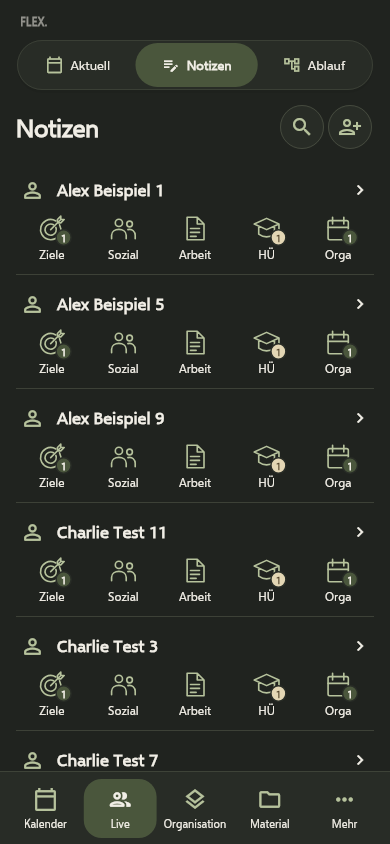
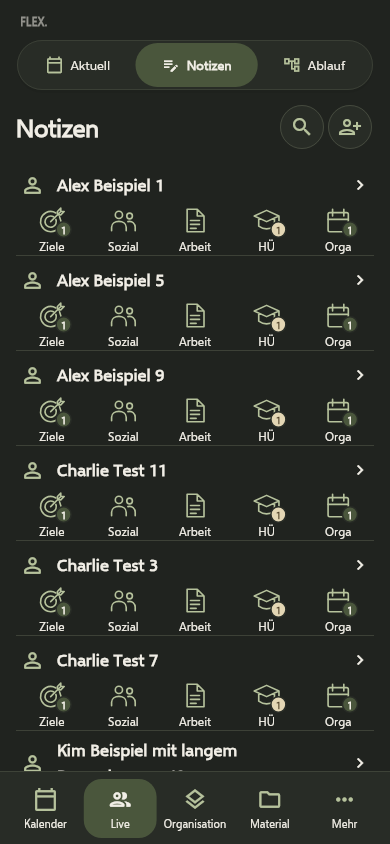
Fit six pupil rows on phones while preserving all recording actions

diff --git a/flutter_app/lib/ui/pupil_card.dart b/flutter_app/lib/ui/pupil_card.dart
@@ -37,48 +37,51 @@ class PupilCard extends StatelessWidget {
           ),
         ),
         child: Padding(
-          padding: const EdgeInsets.only(top: 8, bottom: 9),
+          padding: const EdgeInsets.symmetric(vertical: 2),
           child: Column(
             mainAxisSize: MainAxisSize.min,
             children: [
-              InkWell(
-                key: ValueKey('pupil-open-${pupil.id}'),
-                onTap: onOpen,
-                borderRadius: BorderRadius.circular(10),
-                child: Padding(
-                  padding: const EdgeInsets.symmetric(
-                    horizontal: 4,
-                    vertical: 8,
-                  ),
-                  child: Row(
-                    children: [
-                      Icon(
-                        Icons.person_outline_rounded,
-                        size: 25,
-                        color: scheme.primary,
-                      ),
-                      const SizedBox(width: 12),
-                      Expanded(
-                        child: Text(
-                          pupil.name,
-                          style: theme.textTheme.titleMedium?.copyWith(
-                            fontSize: 17,
-                            fontWeight: FontWeight.w700,
+              ConstrainedBox(
+                constraints: const BoxConstraints(minHeight: 44),
+                child: InkWell(
+                  key: ValueKey('pupil-open-${pupil.id}'),
+                  onTap: onOpen,
+                  borderRadius: BorderRadius.circular(10),
+                  child: Padding(
+                    padding: const EdgeInsets.symmetric(
+                      horizontal: 4,
+                      vertical: 4,
+                    ),
+                    child: Row(
+                      children: [
+                        Icon(
+                          Icons.person_outline_rounded,
+                          size: 25,
+                          color: scheme.primary,
+                        ),
+                        const SizedBox(width: 12),
+                        Expanded(
+                          child: Text(
+                            pupil.name,
+                            style: theme.textTheme.titleMedium?.copyWith(
+                              fontSize: 17,
+                              fontWeight: FontWeight.w700,
+                            ),
                           ),
                         ),
-                      ),
-                      if (pupil.archived)
-                        const Padding(
-                          padding: EdgeInsets.only(left: 8),
-                          child: Text('Archiviert'),
+                        if (pupil.archived)
+                          const Padding(
+                            padding: EdgeInsets.only(left: 8),
+                            child: Text('Archiviert'),
+                          ),
+                        const SizedBox(width: 8),
+                        Icon(
+                          Icons.chevron_right,
+                          size: 20,
+                          color: scheme.onSurface,
                         ),
-                      const SizedBox(width: 8),
-                      Icon(
-                        Icons.chevron_right,
-                        size: 20,
-                        color: scheme.onSurface,
-                      ),
-                    ],
+                      ],
+                    ),
                   ),
                 ),
               ),
@@ -107,7 +110,7 @@ class PupilCard extends StatelessWidget {
                               child: Padding(
                                 padding: const EdgeInsets.symmetric(
                                   horizontal: 2,
-                                  vertical: 4,
+                                  vertical: 0,
                                 ),
                                 child: Column(
                                   mainAxisSize: MainAxisSize.min,

diff --git a/flutter_app/test/ui_journey_audit_test.dart b/flutter_app/test/ui_journey_audit_test.dart
@@ -182,6 +182,32 @@ void main() {
               ),
             );
             await capture(t, key, 'page-${destination.$1}-$tab-$suffix');
+            if (destination.$1 == 1 && tab == 1 && view.$1 == 390) {
+              // Match the approved six-pupil phone layout without hiding any
+              // of the five actions or shrinking their touch surfaces.
+              for (final pupil in [
+                'audit-p0',
+                'audit-p4',
+                'audit-p8',
+                'audit-p10',
+                'audit-p2',
+                'audit-p6',
+              ]) {
+                for (final action in [
+                  'goal',
+                  'social',
+                  'work',
+                  'homework',
+                  'orga',
+                ]) {
+                  final button = find.byKey(
+                    ValueKey('shortcut-$pupil-$action'),
+                  );
+                  expect(button.hitTestable(), findsOneWidget);
+                  expect(t.getSize(button).height, greaterThanOrEqualTo(44));
+                }
+              }
+            }
           }
         }
         await tap(t, find.byKey(const ValueKey('bottom-1')));

diff --git a/docs/rebuild/CREAM-SAGE-BUILD-57.md b/docs/rebuild/CREAM-SAGE-BUILD-57.md
@@ -5,7 +5,7 @@ Die freigegebenen Smartphone-Entwürfe bilden jetzt die gemeinsame Oberfläche d
 ## Oberfläche
 
 - Kleines FLEX. über der Kontextnavigation; zusammenhängende Navigationspille, helle untere Bereichsleiste und zusammengehörige aktive Symbole/Beschriftungen.
-- Notizen zeigt jeden Schüler als offene Zeile mit allen fünf direkten Aktionen: Ziele, Sozial, Arbeit, HÜ, Orga. Zähler sitzen am unteren rechten Symbolrand; Namen und Aktionen bleiben getrennt lesbar.
+- Notizen zeigt jeden Schüler als offene Zeile mit allen fünf direkten Aktionen: Ziele, Sozial, Arbeit, HÜ, Orga. Zähler sitzen am unteren rechten Symbolrand; Namen und Aktionen bleiben getrennt lesbar. Bei 390 × 844 px sind sechs Schüler mit allen fünf Aktionen gleichzeitig erreichbar; die Aktionsflächen bleiben mindestens 44 px hoch.
 - Gemeinsame Kopf-, Formular- und Fußgestaltung für Sozial, Arbeit, Ziele, HÜ und Orga. Orga-Typen bleiben direkt sichtbar; Entwürfe, Verlauf, aufgegebene HÜ und Dokumente bleiben erreichbar. Bei knapper Breite wechseln Kopfaktionen in eine weitere Zeile.
 - Kalender und Stundenplan verwenden dieselben ruhigen Flächen, Tages-/Wochenraster, klare Datumsbereiche und die waagrechte Zeitmarkierung. Die aktuelle Wochenspalte ist leicht hinterlegt. Kurze Termine behalten ihre Berührungsfläche; lange Unterrichtsblöcke erhalten eine kompakte Darstellung mit vollständiger Zeitspanne.
 - Material, Scannerverwaltung, Aufgaben, Schülerdetails, Archiv, Papierkorb und Daten übernehmen die gemeinsame Schrift-, Farb-, Formular-, Dialog- und Button-Gestaltung. Scannerfunktionen und Dateizuordnung bleiben bestehen.
